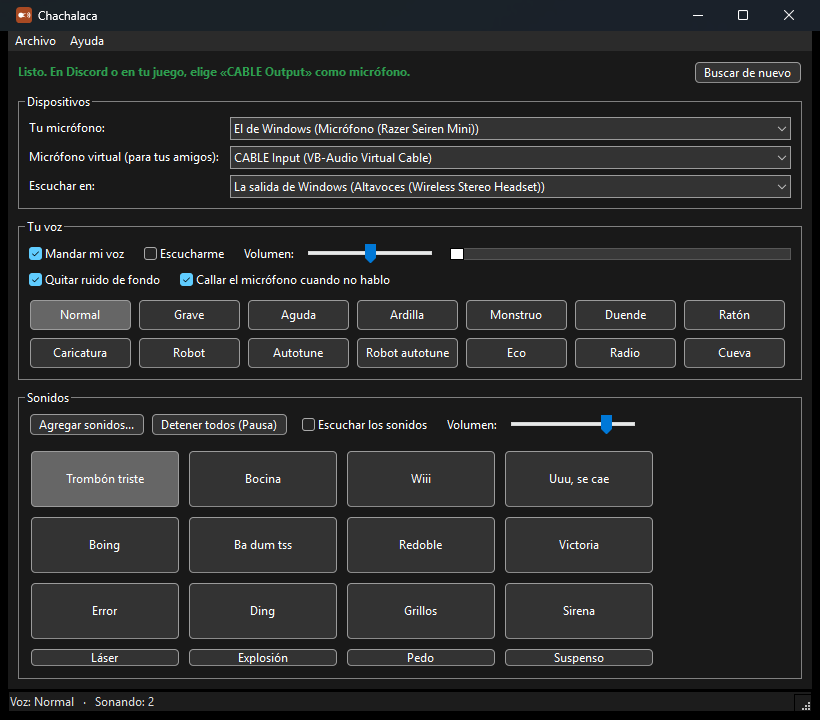
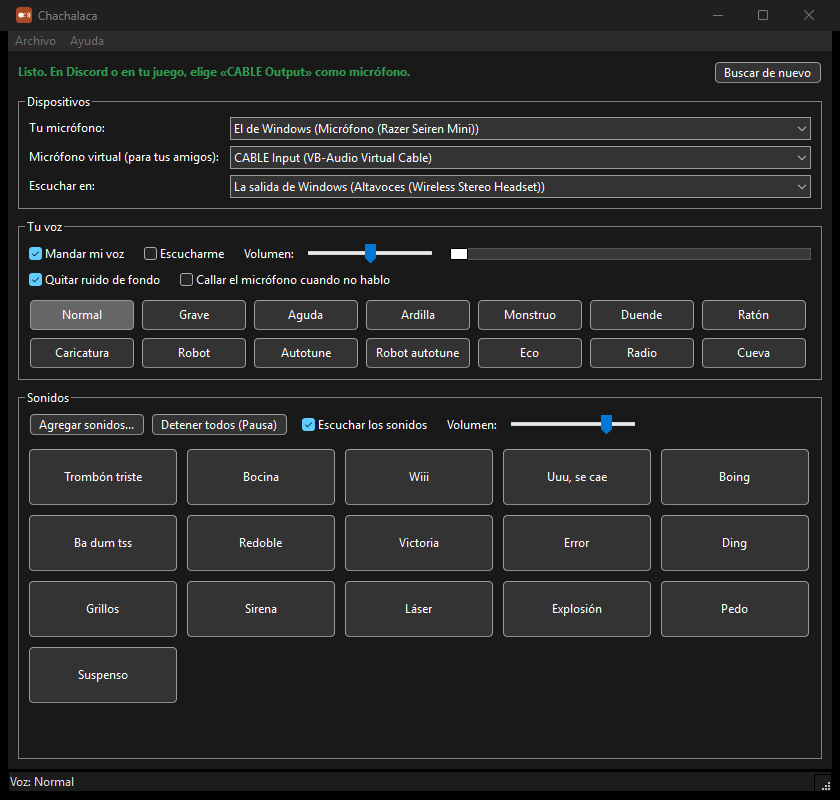
Tablero de sonidos en rejilla: los botones no se aplastan y se baja con la rueda; captura nueva

diff --git a/src/ventana.cpp b/src/ventana.cpp
@@ -23,7 +23,6 @@
 #include <wx/stattext.h>
 #include <wx/textdlg.h>
 #include <wx/tglbtn.h>
-#include <wx/wrapsizer.h>
 
 #include <wx/app.h>
 #include <wx/msgdlg.h>
@@ -229,7 +228,7 @@ VentanaPrincipal::VentanaPrincipal(cha::MotorAudio& motor, cha::Ajustes& ajustes
     RehacerTablero();
 
     // Tamaño y posición de la última vez (si sigue dentro de una pantalla)
-    SetMinSize(FromDIP(wxSize(640, 560)));
+    SetMinSize(FromDIP(wxSize(760, 560)));   // menos ancho y «Robot autotune» ya no cabe en su botón
     wxSize tamano = FromDIP(wxSize(840, 800));
     if (m_ajustes.ancho > 300 && m_ajustes.alto > 300) tamano = wxSize(m_ajustes.ancho, m_ajustes.alto);
     SetSize(tamano);
@@ -399,8 +398,16 @@ void VentanaPrincipal::CrearControles()
 
     m_tablero = new wxScrolledWindow(cajaSon, wxID_ANY, wxDefaultPosition, wxDefaultSize, wxVSCROLL);
     m_tablero->SetScrollRate(0, FromDIP(10));
-    m_tableroSizer = new wxWrapSizer(wxHORIZONTAL, 0);   // sin estirar el último botón de cada fila
-    m_tablero->SetSizer(m_tableroSizer);
+    // Rejilla con tantas columnas como quepan: así cada fila mide lo que debe y las que no caben se ven bajando
+    // (con una de ajuste automático, la última fila quedaba aplastada en vez de poder bajar hasta ella)
+    m_tableroSizer = new wxGridSizer(4, FromDIP(8), FromDIP(8));
+    auto* envoltura = new wxBoxSizer(wxVERTICAL);   // para que las filas no se estiren a lo alto
+    envoltura->Add(m_tableroSizer, 0, wxALL, FromDIP(2));
+    m_tablero->SetSizer(envoltura);
+    m_tablero->Bind(wxEVT_SIZE, [this](wxSizeEvent& e) {
+        e.Skip();
+        CallAfter([this]() { AjustarColumnas(); });
+    });
     grupoSon->Add(m_tablero, 1, wxEXPAND | wxALL, FromDIP(3));
     caja->Add(grupoSon, 1, wxEXPAND | wxLEFT | wxRIGHT | wxBOTTOM, borde);
 
@@ -649,6 +656,20 @@ int VentanaPrincipal::AgregarSonidosDeFabrica()
     return encontrados;
 }
 
+void VentanaPrincipal::AjustarColumnas()
+{
+    if (!m_tablero || !m_tableroSizer) return;
+    int columnas = 1;
+    if (!m_sonidos.empty())
+    {
+        const int ancho = m_tablero->GetClientSize().GetWidth();
+        columnas = std::max(1, (ancho + FromDIP(8)) / (FromDIP(150) + FromDIP(8)));
+    }
+    if (columnas != m_tableroSizer->GetCols()) m_tableroSizer->SetCols(columnas);
+    m_tablero->FitInside();
+    m_tablero->Layout();
+}
+
 void VentanaPrincipal::RehacerTablero()
 {
     m_tablero->Freeze();
@@ -671,10 +692,9 @@ void VentanaPrincipal::RehacerTablero()
         b->SetToolTip(s.audio ? wxString(L"Clic para tocar. Clic derecho para el atajo, el nombre y más.") : wxString(s.error));
         b->Bind(wxEVT_BUTTON, [this, i](wxCommandEvent&) { Tocar(i); });
         b->Bind(wxEVT_CONTEXT_MENU, [this, i](wxContextMenuEvent&) { MenuSonido(i); });
-        m_tableroSizer->Add(b, 0, wxALL, FromDIP(4));
+        m_tableroSizer->Add(b, 0);
     }
-    m_tablero->FitInside();
-    m_tablero->Layout();
+    AjustarColumnas();
     m_tablero->Thaw();
 }
 

diff --git a/src/ventana.hpp b/src/ventana.hpp
@@ -15,6 +15,7 @@ class wxButton;
 class wxCheckBox;
 class wxChoice;
 class wxGauge;
+class wxGridSizer;
 class wxPanel;
 class wxScrolledWindow;
 class wxSizer;
@@ -67,7 +68,7 @@ private:
     wxGauge* m_nivel = nullptr;
     std::vector<wxToggleButton*> m_efectos;
     wxScrolledWindow* m_tablero = nullptr;
-    wxSizer* m_tableroSizer = nullptr;
+    wxGridSizer* m_tableroSizer = nullptr;   // columnas según el ancho (ver AjustarColumnas)
 
     void CrearControles();
     void LlenarDispositivos();
@@ -76,6 +77,7 @@ private:
     void InstalarMicrofonoVirtual();
     void ElegirEfecto(cha::Efecto e);
     void RehacerTablero();
+    void AjustarColumnas();
     void Tocar(size_t i);
     void MenuSonido(size_t i);
     void CambiarAtajo(size_t i);
